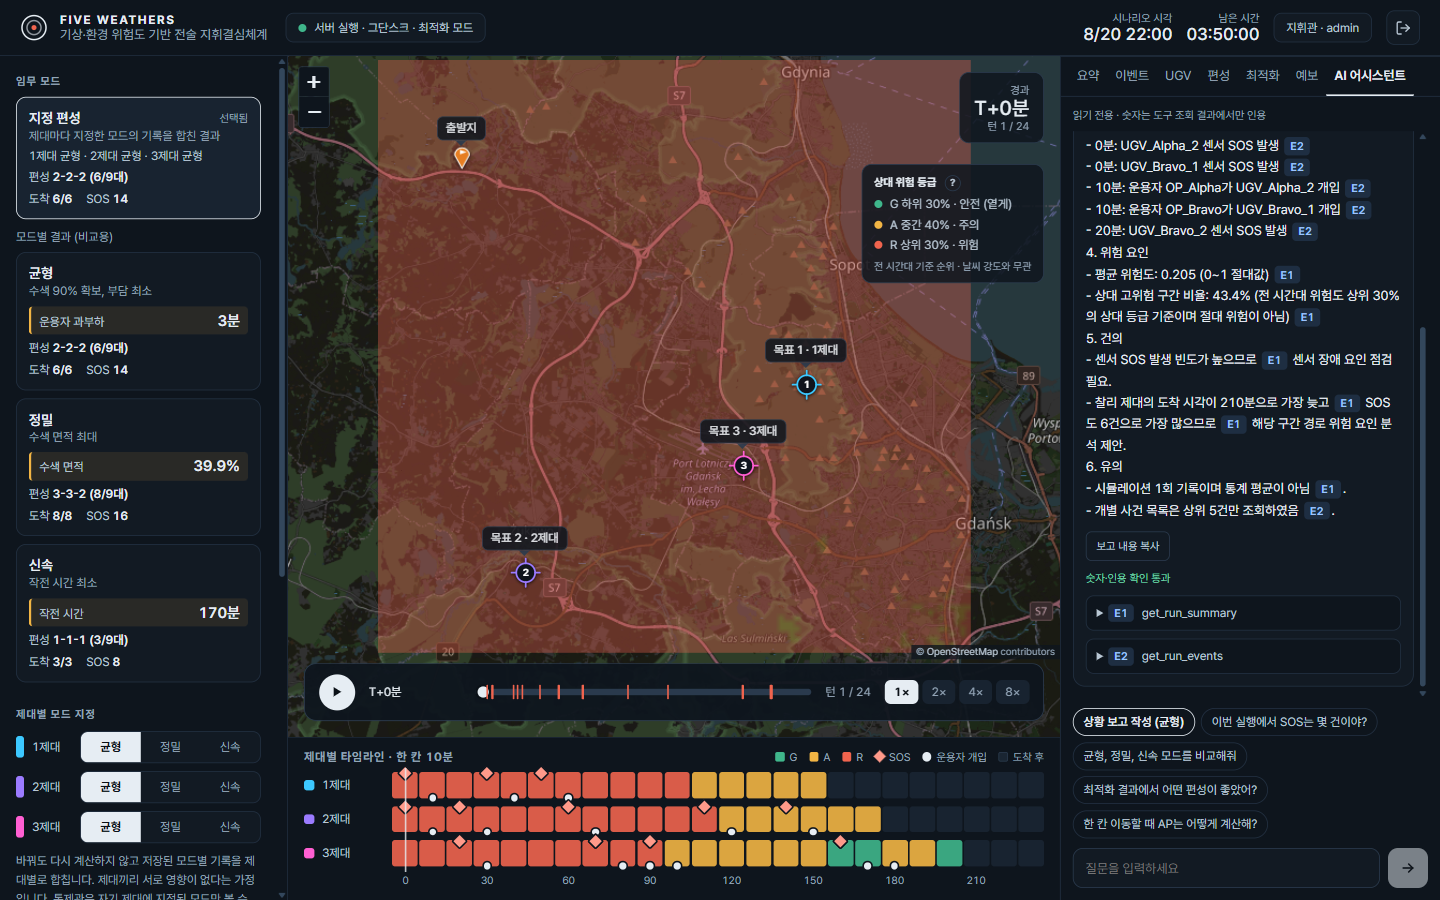
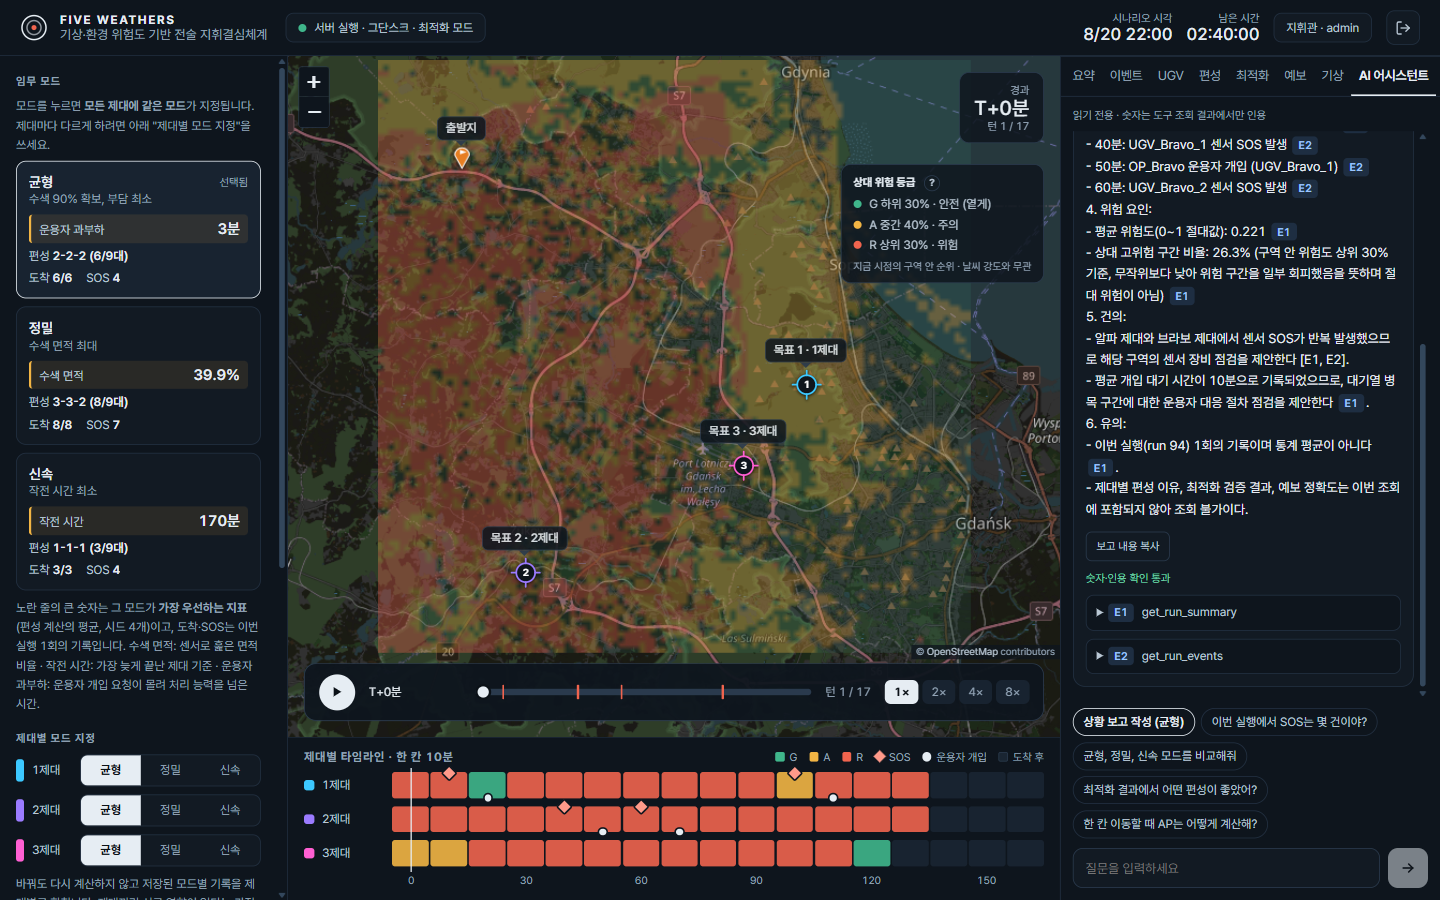
docs: README 캡처 6장을 현재 화면(시점별 등급, 기상 탭, 모드 카드)으로 재촬영, 테스트 수와 최적화 문구 갱신

diff --git a/README.md b/README.md
@@ -22,7 +22,7 @@
 
 좋은 결과만 적지 않았습니다. 각 항목의 근거와 한계는 링크한 문서에 있습니다.
 
-- **최적화**: 날씨를 무시한 기준선 대비 수색 면적 개선만 95% 신뢰구간이 겹치지 않아 뚜렷합니다. 나머지 비교(도착률, 작전 시간 등)는 점추정으로는 개선 방향이지만 **구간이 겹쳐 이득이라고 단정할 수 없습니다.** SOS 건수는 줄지 않았습니다. → [최적화 보고서](docs/optimization_report.md)
+- **최적화**(새 위험도에서 다시 돌린 결과): 날씨를 무시한 기준선 대비 수색 면적 개선만 95% 신뢰구간이 겹치지 않아 뚜렷합니다. 파레토 해 18개가 서로 비슷해 세 모드의 전술 차이는 작습니다. 나머지 비교(도착률, 작전 시간 등)는 점추정으로는 개선 방향이지만 **구간이 겹쳐 이득이라고 단정할 수 없습니다.** SOS 건수는 줄지 않았습니다. → [최적화 보고서](docs/optimization_report.md)
 - **강수 예측**: ERA5의 누적 강수를 시간당으로 바꾸는 기존 규칙이 가짜 강수를 만듭니다(10mm/h 초과 시간 27건 → 428건). 지역 강수 이력만 쓴 XGBoost는 지속성 기준선을 뚜렷하게 넘지 못했고, 강한 비(≥ 1mm/h)에서는 지속성이 더 낫습니다. → [기상 모델 보고서(팀 원본 데이터)](docs/weather_model_report.md) · [ConvLSTM 기상 예측](docs/weather_convlstm.md) · [위험도 직접 생성](docs/ltwr_generation.md)
 - **팀 원본 위험도 예보(map_20km)**: 발표 1시간 뒤부터 지속성 기준선보다 오차가 크고 위험을 계속 낮게 봅니다.
 - **직접 구현한 ConvLSTM**: 시험 구간(2022-07 이후)에서 평균 오차는 지속성보다 모든 변수·예측 시간에서 뚜렷하게 낫지만(18칸 중 18), **강한 비(≥1 mm/h) 탐지는 지속성보다 나쁩니다.** → [weather_convlstm.md](docs/weather_convlstm.md)
@@ -40,7 +40,11 @@
 
 ![AI 상황 보고](docs/img/ai.png)
 
+지도 표시 "기상"(보라색 농도)과 우측 "기상" 탭(시간 그래프). 날씨는 구역 안에서 거의 균일해서 지도보다 그래프가 시간 변화를 잘 보여 줍니다:
+
 ![기상 악영향 지도](docs/img/weather.png)
+
+![기상 탭](docs/img/weather_tab.png)
 
 - **편성 탭**(지휘관): 모드별 추천 편성(예: 2-2-2)과 후보 전체(목표 3곳이면 27가지)의 도착률·수색·작전 시간·운용자 부하를 표로 비교합니다. 목표를 바꿔 다시 실행하면 편성도 다시 계산됩니다(직접 입력한 목표는 약 1분, 기본 목표는 저장된 결과).
 - **지도 표시 "기상"**: 비, 안개 가능성, 토양수분, 바람을 하나(0~1)로 합친 "기상 악영향" 추정 지표입니다. 위험도의 85~95%는 지형 같은 고정분이라 위험도 색만으로는 날씨가 잘 안 보이기 때문에 따로 둡니다. **원시 기상(ERA5)은 월별 파일이 2018~2022년뿐이라 시나리오 날짜(2023-06-30)는 `scripts/download_era5_scenario.py`로 따로 받아 둡니다(CDS 계정 필요, 파일은 git 제외). 파일이 없으면 "표시할 수 없음"과 이유만 보입니다. 받은 자료는 시나리오 구간이 비 없는 잔잔한 밤이고 위험도의 시간 변화와 상관이 약해(0.38), 같은 날씨인지는 확인되지 않았습니다.** 가정과 한계, 자료 받는 법은 [docs/weather_index.md](docs/weather_index.md).
@@ -204,7 +208,7 @@ five_weathers/
 │  │  ├─ simulation/   # 엔진(algo/), 최적화, 실행기, 재생 데이터 변환
 │  │  ├─ services/     # 비즈니스 로직 (권한별 기록 조회 포함)
 │  │  ├─ db/           # 모델, 세션, 초기 계정
-│  │  └─ tests/        # 228개 테스트
+│  │  └─ tests/        # 327개 테스트
 │  ├─ scripts/         # 데이터 생성·최적화·분석·평가 스크립트
 │  ├─ data/            # 위험 지도, 최적화 결과, 예보 분석 결과, 운용 규칙 문서(knowledge/)
 │  └─ alembic/         # DB 마이그레이션
@@ -242,7 +246,7 @@ pip install -r requirements.txt
 pytest
 ```
 
-250개 이상의 테스트가 PostgreSQL이나 `.env` 없이 in-memory SQLite로 돌아갑니다(전체 약 8분). AI 어시스턴트 테스트는 실제 Gemini 대신 가짜 모델을 끼워 권한, 근거 검증, 에이전트 루프, 어댑터 변환을 검증합니다.
+327개의 테스트가 PostgreSQL이나 `.env` 없이 in-memory SQLite로 돌아갑니다(전체 약 14분, 메모리가 적으면 파일을 나눠 돌리세요). AI 어시스턴트 테스트는 실제 Gemini 대신 가짜 모델을 끼워 권한, 근거 검증, 에이전트 루프, 어댑터 변환을 검증합니다.
 
 ## 한계
 
